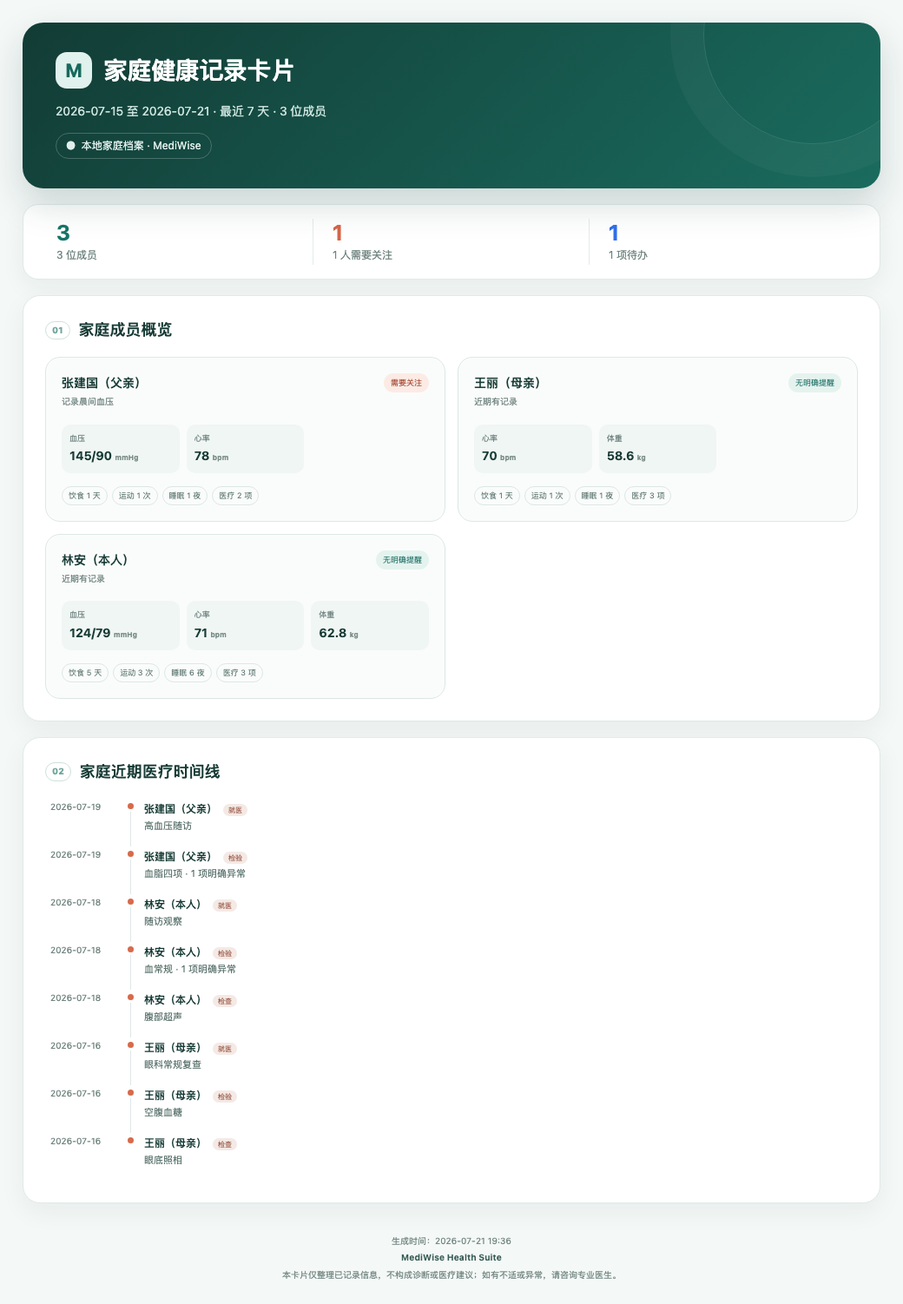
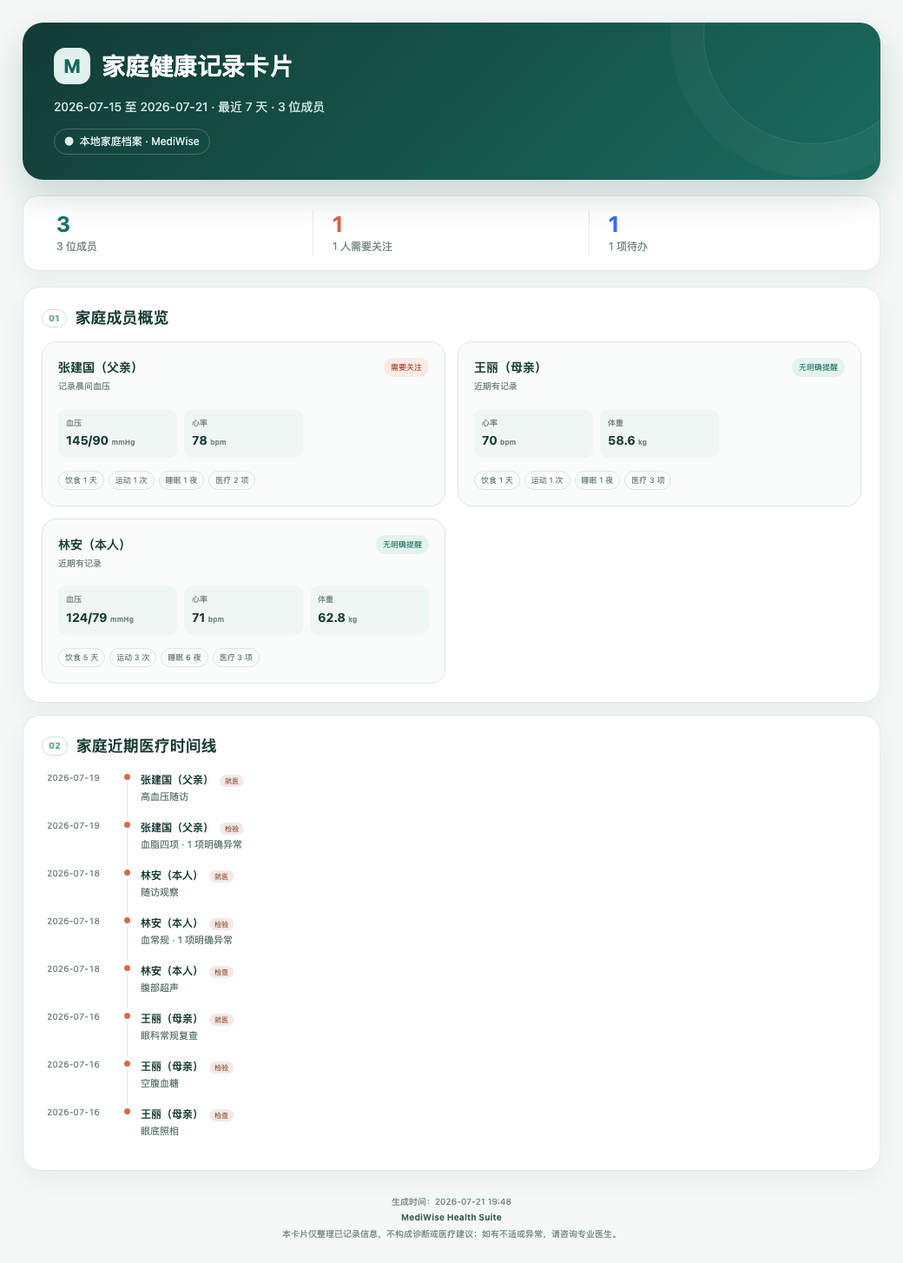
feat: add personal health timeline

diff --git a/mediwise-health-tracker/scripts/briefing_report.py b/mediwise-health-tracker/scripts/briefing_report.py
@@ -56,7 +56,10 @@ COPY = {
         "family_timeline": "家庭近期医疗时间线", "stable": "无明确提醒", "needs_attention": "需要关注",
         "data_present": "近期有记录", "data_missing": "近期记录较少", "diet_days_short": "饮食 {count} 天",
         "activity_short": "运动 {count} 次", "sleep_short": "睡眠 {count} 夜", "care_short": "医疗 {count} 项",
-        "no_timeline": "所选时间范围内暂无家庭就医、检验或检查记录。",
+        "no_timeline": "所选时间范围内暂无家庭就医、检验或检查记录。", "health_timeline": "个人健康时间轴",
+        "no_health_timeline": "所选时间范围内暂无可展示的健康动态。", "metric_event": "指标",
+        "food_event": "饮食", "activity_event": "运动", "sleep_event": "睡眠", "health_metric_update": "健康指标更新",
+        "food_log": "饮食记录", "sleep_log": "睡眠记录", "sleep_score": "评分 {score}",
         "generated": "生成时间：{time}",
         "disclaimer": "本卡片仅整理已记录信息，不构成诊断或医疗建议；如有不适或异常，请咨询专业医生。",
         "self": "本人", "visit_event": "就医", "lab_event": "检验", "imaging_event": "检查",
@@ -92,7 +95,10 @@ COPY = {
         "family_timeline": "Recent family care timeline", "stable": "No explicit alerts", "needs_attention": "Needs attention",
         "data_present": "Recent records available", "data_missing": "Limited recent data", "diet_days_short": "Food {count}d",
         "activity_short": "Activity {count}", "sleep_short": "Sleep {count} nights", "care_short": "Care {count}",
-        "no_timeline": "No visits, lab results, imaging, or exams were recorded for the family in this period.",
+        "no_timeline": "No visits, lab results, imaging, or exams were recorded for the family in this period.", "health_timeline": "Personal health timeline",
+        "no_health_timeline": "No health events are available for this period.", "metric_event": "Metrics",
+        "food_event": "Food", "activity_event": "Activity", "sleep_event": "Sleep", "health_metric_update": "Health metrics updated",
+        "food_log": "Food log", "sleep_log": "Sleep record", "sleep_score": "Score {score}",
         "generated": "Generated {time}",
         "disclaimer": "This card organizes recorded information only. It is not a diagnosis or medical advice. Consult a qualified clinician about symptoms or abnormal results.",
         "self": "self", "visit_event": "Visit", "lab_event": "Lab", "imaging_event": "Imaging",
@@ -220,7 +226,8 @@ def _query_active_medications(member_id: str) -> list[dict]:
 def _query_lifestyle_summary(member_id: str, days: int) -> dict:
     cutoff = (datetime.now() - timedelta(days=max(days - 1, 0))).strftime("%Y-%m-%d")
     result = {"diet_days": 0, "diet": None, "exercise_count": 0, "exercise_days": 0,
-              "duration": 0, "calories_burned": 0.0, "step_days": 0, "avg_steps": None}
+              "duration": 0, "calories_burned": 0.0, "step_days": 0, "avg_steps": None,
+              "recent_diet": None, "recent_exercise": []}
     conn = health_db.get_lifestyle_connection()
     try:
         row = conn.execute(
@@ -232,12 +239,22 @@ def _query_lifestyle_summary(member_id: str, days: int) -> dict:
         result["diet_days"] = diet_days
         if diet_days:
             result["diet"] = {key: float(row[key] or 0) / diet_days for key in ("calories", "protein", "fat", "carbs", "fiber")}
+            recent_diet = conn.execute(
+                """SELECT meal_date, SUM(total_calories) AS calories, SUM(total_protein) AS protein,
+                          SUM(total_fat) AS fat, SUM(total_carbs) AS carbs, SUM(total_fiber) AS fiber
+                   FROM diet_records WHERE member_id=? AND is_deleted=0 AND meal_date>=?
+                   GROUP BY meal_date ORDER BY meal_date DESC LIMIT 1""", (member_id, cutoff)).fetchone()
+            result["recent_diet"] = {key: recent_diet[key] for key in recent_diet.keys()} if recent_diet else None
         row = conn.execute(
             """SELECT COUNT(*) AS count, COUNT(DISTINCT exercise_date) AS days,
                       SUM(duration) AS duration, SUM(calories_burned) AS burned
                FROM exercise_records WHERE member_id=? AND is_deleted=0 AND exercise_date>=?""", (member_id, cutoff)).fetchone()
         result.update(exercise_count=int(row["count"] or 0), exercise_days=int(row["days"] or 0),
                       duration=int(row["duration"] or 0), calories_burned=float(row["burned"] or 0))
+        result["recent_exercise"] = health_db.rows_to_list(conn.execute(
+            """SELECT exercise_date, exercise_type, exercise_name, duration, calories_burned, intensity
+               FROM exercise_records WHERE member_id=? AND is_deleted=0 AND exercise_date>=?
+               ORDER BY exercise_date DESC, exercise_time DESC LIMIT 2""", (member_id, cutoff)).fetchall())
     finally:
         conn.close()
 
@@ -286,6 +303,7 @@ def _query_sleep_summary(member_id: str, days: int) -> dict:
         return sum(values) / len(values) if values else None
     return {"count": len(records), "avg_duration": average("duration_min"), "avg_score": average("score"),
             "latest_deep": records[-1].get("deep_min"), "latest_rem": records[-1].get("rem_min"),
+            "latest_duration": records[-1].get("duration_min"), "latest_score": records[-1].get("score"),
             "latest_date": records[-1]["date"]}
 
 
@@ -436,32 +454,75 @@ def _lifestyle_sleep(lifestyle: dict, sleep: dict, locale: str) -> str:
     return f'<section><div class="section-title"><span>02</span><h2>{c["intake_activity"]}</h2></div><div class="wellness-grid">{intake}{activity}{sleep_html}</div><p class="scope-note">{c["not_balance"]}</p></section>'
 
 
-def _care_html(care: dict, locale: str) -> str:
+def _timeline_metric_value(metric_type: str, point: dict) -> str:
+    if metric_type == "blood_pressure":
+        value = f'{point.get("systolic", "—")}/{point.get("diastolic", "—")}'
+    else:
+        value = _fmt_number(_metric_number(point, metric_type), 1 if metric_type in ("blood_sugar", "weight") else 0)
+    return f'{value} {METRIC_UNITS.get(metric_type, "")}'.strip()
+
+
+def _personal_timeline(trends: dict, lifestyle: dict, sleep: dict, care: dict, locale: str) -> str:
+    """Build a compact chronology spanning care and everyday health records."""
     c = COPY[locale]
-    def rows(kind):
-        values = care[kind]
-        if not values:
-            return f'<div class="empty compact">{c[{"visits":"no_visits","labs":"no_labs","imaging":"no_imaging"}[kind]]}</div>'
-        output = []
-        for item in values:
-            if kind == "visits":
-                title = item.get("diagnosis") or item.get("department") or item.get("visit_type") or c["unknown"]
-                detail = " · ".join(x for x in (item.get("hospital"), item.get("department")) if x)
-                date = item.get("visit_date", "")[:10]
-            elif kind == "labs":
-                title, date = item.get("test_name") or c["unknown"], item.get("test_date", "")[:10]
-                detail = c["abnormal"].format(count=item["abnormal_count"]) if item["abnormal_count"] else c["no_flagged"]
-                if item.get("abnormal_labels"):
-                    detail += " · " + "; ".join(item["abnormal_labels"])
-            else:
-                title, date = item.get("exam_name") or c["unknown"], item.get("exam_date", "")[:10]
-                detail = item.get("conclusion") or item.get("findings") or c["unknown"]
-            output.append(f'<div class="care-item"><time>{_escape(date)}</time><b>{_escape(title)}</b><p>{_escape(detail)}</p></div>')
-        return "".join(output)
-    return f'''<section><div class="section-title"><span>03</span><h2>{c["recent_care"]}</h2></div>
-      <div class="care-grid"><div class="care-col"><h3>{c["visits"]}</h3>{rows("visits")}</div>
-      <div class="care-col"><h3>{c["labs"]}</h3>{rows("labs")}</div>
-      <div class="care-col"><h3>{c["imaging"]}</h3>{rows("imaging")}</div></div></section>'''
+    events = []
+
+    for item in care["visits"]:
+        title = item.get("diagnosis") or item.get("department") or item.get("visit_type") or c["unknown"]
+        detail = " · ".join(value for value in (item.get("hospital"), item.get("department"), item.get("summary")) if value)
+        events.append({"date": item.get("visit_date", "")[:10], "priority": 0, "tone": "care-event",
+                       "kind": c["visit_event"], "title": title, "detail": detail})
+    for item in care["labs"]:
+        detail = c["abnormal"].format(count=item["abnormal_count"]) if item["abnormal_count"] else c["no_flagged"]
+        if item.get("abnormal_labels"):
+            detail += " · " + "; ".join(item["abnormal_labels"])
+        events.append({"date": item.get("test_date", "")[:10], "priority": 0, "tone": "care-event",
+                       "kind": c["lab_event"], "title": item.get("test_name") or c["unknown"], "detail": detail})
+    for item in care["imaging"]:
+        events.append({"date": item.get("exam_date", "")[:10], "priority": 0, "tone": "care-event",
+                       "kind": c["imaging_event"], "title": item.get("exam_name") or c["unknown"],
+                       "detail": item.get("conclusion") or item.get("findings") or c["unknown"]})
+
+    metric_dates = {}
+    for metric_type, points in trends.items():
+        if points:
+            point = points[-1]
+            metric_dates.setdefault(point.get("date", ""), []).append(
+                f'{METRIC_NAMES[locale].get(metric_type, metric_type)} {_timeline_metric_value(metric_type, point)}')
+    for date, values in metric_dates.items():
+        events.append({"date": date, "priority": 1, "tone": "metric-event", "kind": c["metric_event"],
+                       "title": c["health_metric_update"], "detail": " · ".join(values)})
+
+    recent_diet = lifestyle.get("recent_diet")
+    if recent_diet:
+        detail = f'{c["recorded_intake"]} {_fmt_number(recent_diet.get("calories"))} kcal · {c["protein"]} {_fmt_number(recent_diet.get("protein"))}g · {c["fiber"]} {_fmt_number(recent_diet.get("fiber"))}g'
+        events.append({"date": str(recent_diet.get("meal_date", ""))[:10], "priority": 3, "tone": "food-event",
+                       "kind": c["food_event"], "title": c["food_log"], "detail": detail})
+    for exercise in lifestyle.get("recent_exercise", []):
+        title = exercise.get("exercise_name") or exercise.get("exercise_type") or c["activity_event"]
+        detail = f'{c["duration"]} {_fmt_number(exercise.get("duration"))} {c["minutes"]} · {c["activity_burn"]} {_fmt_number(exercise.get("calories_burned"))} kcal'
+        events.append({"date": str(exercise.get("exercise_date", ""))[:10], "priority": 2, "tone": "activity-event",
+                       "kind": c["activity_event"], "title": title, "detail": detail})
+    if sleep.get("count"):
+        score = c["sleep_score"].format(score=_fmt_number(sleep.get("latest_score"))) if sleep.get("latest_score") is not None else ""
+        detail = " · ".join(value for value in (_hours(sleep.get("latest_duration"), locale), score,
+                                                   f'{c["latest_deep"]} {_fmt_number(sleep.get("latest_deep"))} {c["minutes"]}') if value)
+        events.append({"date": sleep.get("latest_date", ""), "priority": 4, "tone": "sleep-event",
+                       "kind": c["sleep_event"], "title": c["sleep_log"], "detail": detail})
+
+    def event_sort_key(event):
+        return event["date"], -event["priority"]
+
+    # Keep one true chronology. Medical events only win ties on the same day;
+    # an older visit must not displace today's sleep, meal, or activity log.
+    events = sorted(events, key=event_sort_key, reverse=True)[:10]
+    if not events:
+        body = f'<div class="empty">{c["no_health_timeline"]}</div>'
+    else:
+        body = '<div class="timeline personal-timeline">' + "".join(
+            f'<div class="timeline-item {event["tone"]}"><time>{_escape(event["date"])}</time><span></span><div><b>{_escape(event["title"])}</b><small>{_escape(event["kind"])}</small><p>{_escape(event["detail"])}</p></div></div>'
+            for event in events) + '</div>'
+    return f'<section class="timeline-section"><div class="section-title"><span>03</span><h2>{c["health_timeline"]}</h2></div>{body}</section>'
 
 
 def _medications_html(meds: list[dict], locale: str) -> str:
@@ -493,9 +554,9 @@ def _attention_html(member_data: dict, locale: str) -> str:
 
 def _personal_content(member: dict, member_data: dict, trends: dict, lifestyle: dict, sleep: dict, care: dict, meds: list[dict], locale: str) -> str:
     c = COPY[locale]
-    return f'''<section class="attention-block"><div class="section-title"><span>00</span><h2>{c["attention"]}</h2></div>{_attention_html(member_data, locale)}</section>
-    <section><div class="section-title"><span>01</span><h2>{c["metrics"]}</h2></div>{_metric_cards(trends, locale)}</section>
-    {_lifestyle_sleep(lifestyle, sleep, locale)}{_care_html(care, locale)}{_medications_html(meds, locale)}'''
+    return f'''<section class="overview-section"><div class="compact-attention"><b>{c["attention"]}</b>{_attention_html(member_data, locale)}</div>
+    <div class="section-title metric-title"><span>01</span><h2>{c["metrics"]}</h2></div>{_metric_cards(trends, locale)}</section>
+    {_lifestyle_sleep(lifestyle, sleep, locale)}{_personal_timeline(trends, lifestyle, sleep, care, locale)}{_medications_html(meds, locale)}'''
 
 
 def _family_card(member: dict, member_data: dict, trends: dict, lifestyle: dict, sleep: dict, care: dict, locale: str) -> str:
@@ -571,19 +632,18 @@ def _render_html(title: str, subtitle: str, privacy: str, summary: str, content:
     generated = c["generated"].format(time=datetime.now().strftime("%Y-%m-%d %H:%M"))
     return f'''<!DOCTYPE html><html lang="{c["lang"]}"><head><meta charset="UTF-8"><meta name="viewport" content="width=device-width,initial-scale=1"><title>{_escape(title)}</title>
 <style>
-*{{box-sizing:border-box}} body{{margin:0;background:#F4F8F7;color:#173B35;font:14px/1.55 -apple-system,BlinkMacSystemFont,"Segoe UI","PingFang SC","Microsoft YaHei",Arial,sans-serif}} .container{{max-width:1040px;margin:auto;padding:26px}}
-.header{{position:relative;overflow:hidden;border-radius:24px;padding:34px 38px;background:linear-gradient(135deg,#123C35,#1A6B5E);color:#fff;box-shadow:0 18px 42px rgba(18,60,53,.18)}} .header:after{{content:"";position:absolute;width:250px;height:250px;border:1px solid rgba(255,255,255,.12);border-radius:50%;right:-48px;top:-112px;box-shadow:0 0 0 38px rgba(255,255,255,.035)}}
+*{{box-sizing:border-box}} body{{margin:0;background:#F4F8F7;color:#173B35;font:14px/1.55 -apple-system,BlinkMacSystemFont,"Segoe UI","PingFang SC","Microsoft YaHei",Arial,sans-serif;line-break:strict;overflow-wrap:break-word;font-synthesis:none}} .container{{max-width:1040px;margin:auto;padding:26px}}
+.header{{position:relative;overflow:hidden;border-radius:24px;padding:29px 36px;background:linear-gradient(135deg,#123C35,#1A6B5E);color:#fff;box-shadow:0 18px 42px rgba(18,60,53,.18)}} .header:after{{content:"";position:absolute;width:250px;height:250px;border:1px solid rgba(255,255,255,.12);border-radius:50%;right:-48px;top:-112px;box-shadow:0 0 0 38px rgba(255,255,255,.035)}}
 .brand{{display:flex;align-items:center;gap:13px}} .mark{{display:grid;place-items:center;width:42px;height:42px;border-radius:13px;background:#E1F1ED;color:#17695D;font-weight:800;font-size:22px}} h1{{font-size:28px;line-height:1.2;margin:0;letter-spacing:-.4px}} .subtitle{{margin-top:15px;color:#CCE3DE}} .privacy{{display:inline-block;margin-top:14px;padding:5px 11px;border:1px solid rgba(255,255,255,.22);border-radius:99px;color:#E1EFEC;font-size:12px}}
 .summary-strip{{display:grid;grid-template-columns:repeat(3,1fr);background:white;border:1px solid #DFEAE7;border-radius:18px;margin:18px 0;padding:16px;box-shadow:0 9px 28px rgba(18,60,53,.06)}} .summary-strip>div{{padding:2px 22px;border-right:1px solid #E4ECEA}} .summary-strip>div:last-child{{border:0}} .summary-strip b{{font-size:25px;display:block;line-height:1.1}} .summary-strip span{{font-size:12px;color:#718580}} .green{{color:#167568}} .blue{{color:#2F6FEB}} .coral{{color:#D66548}} .gold{{color:#B7791F}}
-section{{background:#fff;border:1px solid #DFEAE7;border-radius:20px;padding:25px;margin:18px 0;box-shadow:0 10px 30px rgba(18,60,53,.055)}} .section-title{{display:flex;align-items:center;gap:10px;margin-bottom:17px}} .section-title>span{{font-size:10px;font-weight:800;color:#72A69C;border:1px solid #CDE1DC;border-radius:99px;padding:2px 7px}} h2{{font-size:18px;margin:0}} h3{{margin:0;font-size:14px}} .muted{{color:#718580;font-size:11px}} .empty{{padding:24px;text-align:center;border:1px dashed #BFD2CD;border-radius:13px;background:#F8FBFA;color:#718580}} .empty.compact{{padding:18px 10px;margin-top:10px}}
-.metric-grid{{display:grid;grid-template-columns:repeat(3,1fr);gap:12px}} .metric-card{{padding:16px;border-radius:15px;background:#F7FAF9;border:1px solid #DCE8E5}} .metric-head,.meta{{display:flex;justify-content:space-between;gap:8px}} .metric-head span{{font-size:10px;background:#E8F0FA;color:#2F6FEB;border-radius:99px;padding:3px 7px}} .metric-value{{font-size:27px;font-weight:760;margin-top:8px}} .metric-value small,.big small{{font-size:11px;color:#718580}} .spark{{display:block;width:100%;height:54px;margin:7px 0}} .meta{{font-size:9px;color:#82938F}}
-.wellness-grid{{display:grid;grid-template-columns:1.05fr 1fr 1fr;gap:12px}} .panel{{min-height:190px;border-radius:16px;padding:17px;border:1px solid #DCE8E5;background:#F9FBFB}} .intake{{background:#F5F8FC;border-color:#DCE6F3}} .activity{{background:#F3F9F7;border-color:#D6E9E4}} .sleep{{background:#FCF7F4;border-color:#F1E0D9}} .eyebrow{{font-size:12px;font-weight:750;color:#506D67}} .big{{font-size:27px;font-weight:780;margin-top:9px}} .macro,.sleep-row{{display:grid;grid-template-columns:repeat(2,1fr);gap:7px;margin-top:14px}} .macro span,.sleep-row span{{font-size:10px;color:#7A8D88}} .macro b,.sleep-row b{{display:block;font-size:12px;color:#284A44}} .step-box{{margin-top:15px;padding-top:12px;border-top:1px solid #D7E8E4;display:grid;grid-template-columns:1fr auto}} .step-box b{{font-size:18px;color:#176F63}} .step-box small{{grid-column:1/3;color:#82938F}} .top-gap{{margin-top:14px}} .scope-note{{margin:13px 2px 0;font-size:10px;color:#82938F}}
-.care-grid{{display:grid;grid-template-columns:repeat(3,1fr);gap:12px}} .care-col{{border:1px solid #E1EAE8;border-radius:15px;padding:15px}} .care-col h3{{color:#365B54;margin-bottom:9px}} .care-item{{position:relative;padding:10px 0 10px 15px;border-top:1px solid #EDF2F1}} .care-item:before{{content:"";position:absolute;width:6px;height:6px;background:#D76A4A;border-radius:50%;left:0;top:17px}} .care-item time{{font-size:9px;color:#9B6B5F;display:block}} .care-item b{{font-size:12px}} .care-item p{{font-size:10px;color:#718580;margin:2px 0 0}}
-.table-wrap{{overflow:hidden;border:1px solid #DFE8E6;border-radius:14px}} table{{width:100%;border-collapse:collapse}} th{{background:#EDF4F2;color:#31564F;font-size:11px;text-align:left}} th,td{{padding:9px 12px;border-bottom:1px solid #EDF2F1}} tr:last-child td{{border:0}} td{{font-size:11px}}
-.clear{{display:flex;align-items:center;gap:10px;padding:14px 17px;border-radius:14px;background:#E7F5F1;color:#16665B}} .clear i{{display:grid;place-items:center;width:25px;height:25px;border-radius:50%;background:#1B786B;color:white;font-style:normal}} .hero-clear{{margin:18px 0;background:white;border:1px solid #D7E8E3;box-shadow:0 9px 28px rgba(18,60,53,.05)}} .attention-list{{display:grid;gap:8px}} .attention-item{{display:flex;gap:10px;padding:11px 13px;border-radius:11px;background:#F8FAFA}} .attention-item span{{width:7px;height:7px;border-radius:50%;background:#2F6FEB;margin-top:7px;flex:none}} .attention-item.alert span{{background:#D65F45}} .attention-item.warning span{{background:#D49A30}} .attention-item p{{margin:0}}
+section{{background:#fff;border:1px solid #DFEAE7;border-radius:20px;padding:21px;margin:14px 0;box-shadow:0 10px 30px rgba(18,60,53,.055)}} .section-title{{display:flex;align-items:center;gap:10px;margin-bottom:13px}} .section-title>span{{font-size:10px;font-weight:800;color:#72A69C;border:1px solid #CDE1DC;border-radius:99px;padding:2px 7px}} h2{{font-size:18px;margin:0;text-wrap:balance}} h3{{margin:0;font-size:14px}} p{{text-wrap:pretty}} .muted{{color:#718580;font-size:11px}} .empty{{padding:20px;text-align:center;border:1px dashed #BFD2CD;border-radius:13px;background:#F8FBFA;color:#718580}} .empty.compact{{padding:14px 9px;margin-top:8px}}
+.metric-grid{{display:grid;grid-template-columns:repeat(4,1fr);gap:10px}} .metric-card{{padding:13px;border-radius:14px;background:#F7FAF9;border:1px solid #DCE8E5;min-width:0}} .metric-head,.meta{{display:flex;justify-content:space-between;gap:6px}} .metric-head b{{font-size:12px}} .metric-head span{{font-size:9px;background:#E8F0FA;color:#2F6FEB;border-radius:99px;padding:2px 6px;white-space:nowrap}} .metric-value{{font-size:24px;font-weight:760;margin-top:6px;font-variant-numeric:tabular-nums}} .metric-value small,.big small{{font-size:10px;color:#718580}} .spark{{display:block;width:100%;height:42px;margin:5px 0}} .meta{{font-size:8px;color:#82938F}} .metric-title{{margin-top:16px}}
+.wellness-grid{{display:grid;grid-template-columns:1.05fr 1fr 1fr;gap:10px}} .panel{{min-height:158px;border-radius:15px;padding:14px;border:1px solid #DCE8E5;background:#F9FBFB}} .intake{{background:#F5F8FC;border-color:#DCE6F3}} .activity{{background:#F3F9F7;border-color:#D6E9E4}} .sleep{{background:#FCF7F4;border-color:#F1E0D9}} .eyebrow{{font-size:11px;font-weight:750;color:#506D67}} .big{{font-size:24px;font-weight:780;margin-top:6px;font-variant-numeric:tabular-nums}} .macro,.sleep-row{{display:grid;grid-template-columns:repeat(2,1fr);gap:5px;margin-top:9px}} .macro span,.sleep-row span{{font-size:9px;color:#7A8D88}} .macro b,.sleep-row b{{display:block;font-size:11px;color:#284A44}} .step-box{{margin-top:9px;padding-top:8px;border-top:1px solid #D7E8E4;display:grid;grid-template-columns:1fr auto}} .step-box b{{font-size:16px;color:#176F63}} .step-box small{{grid-column:1/3;color:#82938F}} .top-gap{{margin-top:10px}} .scope-note{{margin:9px 2px 0;font-size:9px;color:#82938F}}
+.table-wrap{{overflow:hidden;border:1px solid #DFE8E6;border-radius:14px}} table{{width:100%;border-collapse:collapse;font-variant-numeric:tabular-nums}} th{{background:#EDF4F2;color:#31564F;font-size:11px;text-align:left}} th,td{{padding:9px 12px;border-bottom:1px solid #EDF2F1}} tr:last-child td{{border:0}} td{{font-size:11px}}
+.clear{{display:flex;align-items:center;gap:9px;padding:11px 14px;border-radius:13px;background:#E7F5F1;color:#16665B}} .clear i{{display:grid;place-items:center;width:23px;height:23px;border-radius:50%;background:#1B786B;color:white;font-style:normal}} .hero-clear{{margin:14px 0;background:white;border:1px solid #D7E8E3;box-shadow:0 9px 28px rgba(18,60,53,.05)}} .attention-list{{display:grid;grid-template-columns:repeat(2,minmax(0,1fr));gap:7px;flex:1}} .attention-item{{display:flex;gap:9px;padding:8px 11px;border-radius:10px;background:#F4F8F7}} .attention-item span{{width:6px;height:6px;border-radius:50%;background:#2F6FEB;margin-top:7px;flex:none}} .attention-item.alert span{{background:#D65F45}} .attention-item.warning span{{background:#D49A30}} .attention-item p{{margin:0;font-size:12px}} .compact-attention{{display:flex;align-items:center;gap:14px;padding-bottom:13px;border-bottom:1px solid #E5EEEB}} .compact-attention>b{{font-size:12px;white-space:nowrap;color:#45645E}} .compact-attention>.clear{{flex:1;padding:8px 11px}} .compact-attention>.clear i{{width:20px;height:20px}}
 .family-grid{{display:grid;grid-template-columns:repeat(2,1fr);gap:14px}} .family-card{{padding:18px;border:1px solid #DCE8E5;border-radius:17px;background:#FAFCFB}} .family-card-head{{display:flex;justify-content:space-between;gap:10px}} .family-card-head p{{margin:3px 0;color:#718580;font-size:10px}} .status{{height:max-content;padding:4px 8px;border-radius:99px;background:#E5F3EF;color:#176B60;font-size:9px;white-space:nowrap}} .status.watch{{background:#FCEBE5;color:#A64C36}} .family-metrics{{display:grid;grid-template-columns:repeat(3,1fr);gap:8px;margin:15px 0}} .family-metrics span{{padding:9px;background:#F0F6F4;border-radius:10px}} .family-metrics span.wide{{grid-column:1/4}} .family-metrics small,.family-metrics b{{display:block}} .family-metrics small{{font-size:9px;color:#718580}} .family-metrics b{{font-size:14px;margin-top:3px}} .family-metrics i{{font-size:8px;font-style:normal;color:#7B8E89}} .chips{{display:flex;flex-wrap:wrap;gap:5px}} .chips span{{font-size:9px;padding:3px 7px;border:1px solid #DCE8E5;border-radius:99px;color:#637C76}}
-.timeline{{padding-left:6px}} .timeline-item{{display:grid;grid-template-columns:78px 12px 1fr;gap:9px;min-height:55px}} .timeline-item time{{font-size:10px;color:#718580;padding-top:2px}} .timeline-item>span{{position:relative}} .timeline-item>span:before{{content:"";position:absolute;width:7px;height:7px;border-radius:50%;background:#D76A4A;top:5px;left:2px}} .timeline-item>span:after{{content:"";position:absolute;width:1px;background:#DDE8E5;top:15px;bottom:0;left:5px}} .timeline-item:last-child>span:after{{display:none}} .timeline-item b{{font-size:12px}} .timeline-item small{{margin-left:7px;padding:2px 6px;border-radius:99px;background:#F4E9E5;color:#9B5A47;font-size:8px}} .timeline-item p{{font-size:11px;color:#59726C;margin:1px 0}}
-.footer{{text-align:center;color:#758984;font-size:10px;padding:18px 10px 8px}} .footer b{{display:block;color:#385C55;margin:4px}} @media(max-width:700px){{.container{{padding:12px}}.header{{padding:25px}}.metric-grid,.wellness-grid,.care-grid,.family-grid{{grid-template-columns:1fr}}.summary-strip>div{{padding:2px 8px}}.family-metrics{{grid-template-columns:repeat(2,1fr)}}}} @media print{{body{{background:white}}.container{{max-width:none}}section,.header{{box-shadow:none;break-inside:avoid}}}}
+.timeline{{padding-left:6px}} .timeline-item{{display:grid;grid-template-columns:78px 12px 1fr;gap:9px;min-height:55px}} .timeline-item time{{font-size:10px;color:#718580;padding-top:2px;font-variant-numeric:tabular-nums}} .timeline-item>span{{position:relative}} .timeline-item>span:before{{content:"";position:absolute;width:7px;height:7px;border-radius:50%;background:#D76A4A;top:5px;left:2px}} .timeline-item>span:after{{content:"";position:absolute;width:1px;background:#DDE8E5;top:15px;bottom:0;left:5px}} .timeline-item:last-child>span:after{{display:none}} .timeline-item b{{font-size:12px}} .timeline-item small{{margin-left:7px;padding:2px 6px;border-radius:99px;background:#F4E9E5;color:#9B5A47;font-size:8px}} .timeline-item p{{font-size:11px;color:#59726C;margin:1px 0}} .personal-timeline{{display:grid;grid-template-columns:repeat(2,minmax(0,1fr));column-gap:25px}} .personal-timeline .timeline-item{{grid-template-columns:72px 12px 1fr;min-height:52px}} .personal-timeline .metric-event>span:before{{background:#2F6FEB}} .personal-timeline .metric-event small{{background:#E8F0FA;color:#2F6FEB}} .personal-timeline .food-event>span:before{{background:#557FBA}} .personal-timeline .food-event small{{background:#EDF3FA;color:#446A9E}} .personal-timeline .activity-event>span:before{{background:#1E7A6E}} .personal-timeline .activity-event small{{background:#E4F2EE;color:#176B60}} .personal-timeline .sleep-event>span:before{{background:#C8775E}} .personal-timeline .sleep-event small{{background:#F7EAE5;color:#A45C47}}
+.footer{{text-align:center;color:#758984;font-size:10px;padding:14px 10px 6px}} .footer b{{display:block;color:#385C55;margin:3px}} @media(max-width:700px){{.container{{padding:12px}}.header{{padding:25px}}.metric-grid{{grid-template-columns:repeat(2,1fr)}}.wellness-grid,.family-grid,.personal-timeline{{grid-template-columns:1fr}}.attention-list{{grid-template-columns:1fr}}.compact-attention{{align-items:flex-start;flex-direction:column}}.summary-strip>div{{padding:2px 8px}}.family-metrics{{grid-template-columns:repeat(2,1fr)}}}} @media print{{body{{background:white}}.container{{max-width:none}}section,.header{{box-shadow:none;break-inside:avoid}}}}
 </style></head><body><main class="container"><header class="header"><div class="brand"><div class="mark">M</div><h1>{_escape(title)}</h1></div><div class="subtitle">{_escape(subtitle)}</div><div class="privacy">●&nbsp; {_escape(privacy)} · MediWise</div></header>{summary}{content}<footer class="footer"><span>{_escape(generated)}</span><b>MediWise Health Suite</b><span>{_escape(c["disclaimer"])}</span></footer></main></body></html>'''
 
 
@@ -644,7 +704,8 @@ def generate_report(member_id: str | None = None, owner_id: str | None = None, d
         data = all_data[0]
         title = c["title"]
         subtitle = f'{_member_label(data["member"], locale)} · {c["period"].format(start=start, end=end)} · {c["last_days"].format(days=days)}'
-        summary = _summary_strip(card_briefing, locale)
+        has_priority_items = any(card_briefing.get(key, 0) for key in ("total_alerts", "total_warnings", "total_due_reminders"))
+        summary = _summary_strip(card_briefing, locale) if has_priority_items else ""
         content = _personal_content(data["member"], data["member_data"], data["trends"], data["lifestyle"], data["sleep"], data["care"], data["meds"], locale)
         privacy = c["local_profile"]
     else:

diff --git a/README_EN.md b/README_EN.md
@@ -57,13 +57,13 @@ Ask MediWise to create a health record card for a recent period:
 Create my health record card for the last 7 days.
 ```
 
-The personal card brings together metric trends, recorded food intake, activity burn, steps, sleep, recent visits, lab results, imaging, and active medication. It is generated in English when the conversation or requested locale is English.
+The personal card keeps metric trends, recorded food intake, activity burn, steps, and sleep in a compact overview. A dated personal health timeline then combines metric updates, recent food and activity logs, sleep, visits, lab results, and imaging. It is generated in English when the conversation or requested locale is English.
 
 <p align="center">
-  <img src="docs/images/health-card-example-en.png" width="720" alt="English MediWise personal health record card with metrics, intake and activity, sleep, recent care, lab results, imaging, and medication">
+  <img src="docs/images/health-card-example-en.png" width="720" alt="English MediWise personal health record card with compact metrics, intake and activity, sleep, a personal health timeline, and medication">
 </p>
 
-Food averages use only days that contain food logs, so an unlogged day is not treated as zero intake. Activity burn is shown as a recorded value and is not presented as a calorie deficit. A lab item is counted as abnormal only when the stored report explicitly marks it high, low, abnormal, or critical.
+The timeline shows up to ten recent events in reverse chronological order. Medical records come first when several events share a date. Food averages use only days that contain food logs, so an unlogged day is not treated as zero intake. Activity burn is shown as a recorded value and is not presented as a calorie deficit. A lab item is counted as abnormal only when the stored report explicitly marks it high, low, abnormal, or critical.
 
 MediWise also has a compact family card for one local user who manages several family profiles. It shows each person as `Name (relationship)`, prioritizes members with alerts or pending reminders, and combines recent visits, lab results, and imaging in a family care timeline. Ask for it explicitly:
 

diff --git a/README.md b/README.md
@@ -53,15 +53,15 @@ MediWise 把这条链路串起来：
 
 ### 健康记录卡片示例
 
-当你说“帮我生成最近 7 天的健康记录卡片”，MediWise 会根据本地档案生成一张可以直接在聊天中查看的图片。个人版把指标趋势、饮食摄入、运动消耗、步数、睡眠、近期就医、检验、检查和在用药放在一起；家庭版则突出需要关注的成员和全家的近期医疗时间线。
+当你说“帮我生成最近 7 天的健康记录卡片”，MediWise 会根据本地档案生成一张可以直接在聊天中查看的图片。个人版把指标趋势、饮食摄入、运动消耗、步数和睡眠压缩到同一张卡片，再用个人健康时间轴按日期串联指标更新、日常记录、近期就医、检验和检查；家庭版则突出需要关注的成员和全家的近期医疗时间线。
 
 #### 个人版
 
 <p align="center">
-  <img src="docs/images/health-card-example.png" width="720" alt="MediWise 个人健康记录卡片示例，包含指标趋势、摄入与消耗、睡眠、就医、检验、检查和在用药">
+  <img src="docs/images/health-card-example.png" width="720" alt="MediWise 个人健康记录卡片示例，包含紧凑指标趋势、摄入与消耗、睡眠、个人健康时间轴和在用药">
 </p>
 
-个人版中的热量和营养素按“有饮食记录的日期”计算日均值，不会把未记录日当作零摄入；运动消耗只代表已记录的活动，不会在缺少完整基础代谢与日常活动数据时虚构“热量缺口”。检验结果也只统计报告中明确带有高、低或异常标记的项目。
+个人时间轴最多展示 10 条近期动态，严格按日期倒序排列；同一天内医疗事件优先，同时纳入最近指标、饮食、运动和睡眠记录。个人版中的热量和营养素按“有饮食记录的日期”计算日均值，不会把未记录日当作零摄入；运动消耗只代表已记录的活动，不会在缺少完整基础代谢与日常活动数据时虚构“热量缺口”。检验结果也只统计报告中明确带有高、低或异常标记的项目。
 
 #### 家庭版
 

diff --git a/mediwise-health-tracker/SKILL.md b/mediwise-health-tracker/SKILL.md
@@ -268,7 +268,7 @@ dream.py unlock   → 释放锁，标记完成
 4. 用户明确说“家庭健康记录卡片”“全家健康卡片”时，调用 `generate-report` 并传入 `view=family`，不要传 `member_id`。家庭版用于一个本地用户管理本人及家人的概览，不代表多人共享服务。
 5. 英文请求使用 `locale=en-US`，中文请求使用 `locale=zh-CN`。对外名称分别统一为 “Health Record Card” 和“健康记录卡片”。
 
-个人版按真实记录展示指标趋势、饮食摄入、运动消耗、步数、睡眠、近期就医、检验、检查和在用药。家庭版展示成员关注状态、有限的关键指标、数据覆盖摘要和家庭医疗时间线，不把多张完整个人卡片纵向拼接。饮食日均只按有记录日计算；运动消耗不等于完整能量支出；没有独立饮水或临床液体出入量记录时不得生成相关数字；检验异常仅认原始数据中的明确标记。
+个人版按真实记录展示指标趋势、饮食摄入、运动消耗、步数、睡眠和在用药，并用个人健康时间轴按日期倒序合并指标更新、饮食、运动、睡眠、就医、检验和检查，最多展示 10 条，同一天内医疗事件优先。家庭版展示成员关注状态、有限的关键指标、数据覆盖摘要和家庭医疗时间线，不把多张完整个人卡片纵向拼接。饮食日均只按有记录日计算；运动消耗不等于完整能量支出；没有独立饮水或临床液体出入量记录时不得生成相关数字；检验异常仅认原始数据中的明确标记。
 
 ## 每日健康快照记忆（daily_snapshot.py）
 

diff --git a/docs/HEALTH-MANAGEMENT-OVERVIEW.md b/docs/HEALTH-MANAGEMENT-OVERVIEW.md
@@ -73,7 +73,7 @@ MediWise Health Suite 是面向 OpenClaw 的个人本地健康助手。它把自
 - 最新指标、记录次数、期初变化、最近日期和数据来源。
 - 离线 SVG 趋势图。
 - 饮食摄入、运动消耗、步数与睡眠。
-- 最近就医、检验和检查。
+- 按日期合并指标更新、饮食、运动、睡眠、就医、检验和检查的个人健康时间轴。
 - 当前在用药。
 
 家庭版显示成员数量、需要关注人数、每位成员的紧凑摘要，以及按日期合并的家庭就医、检验和检查时间线。成员始终显示为“姓名（身份）”。明确请求家庭版时不要求指定单个姓名；普通个人请求在存在多位成员时仍必须确认姓名。
